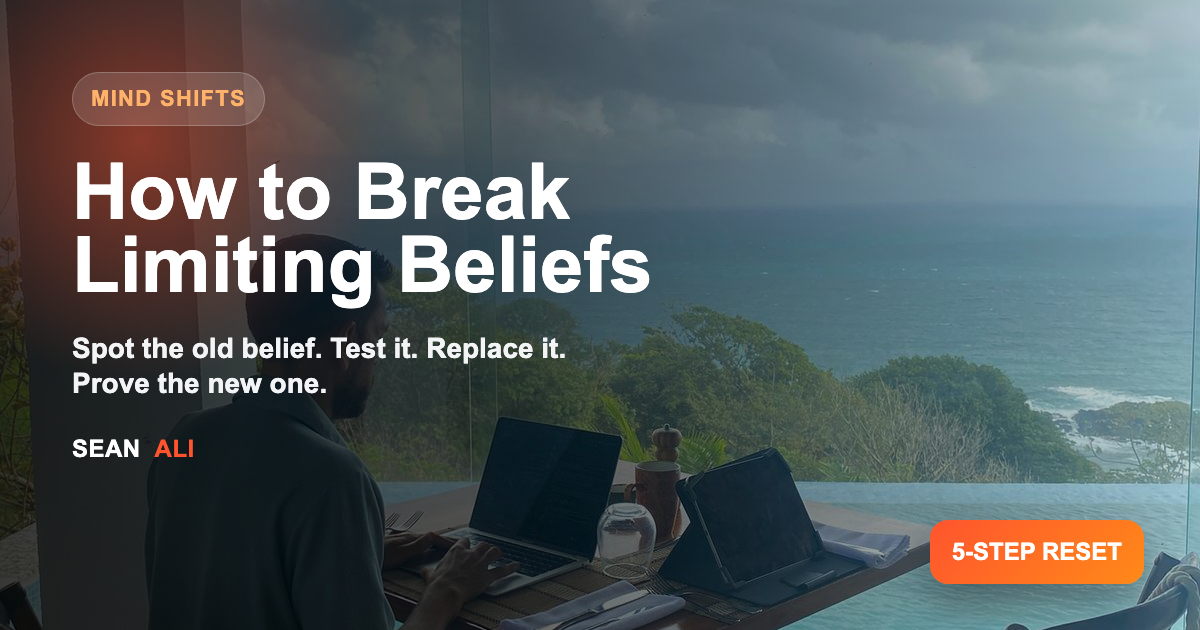
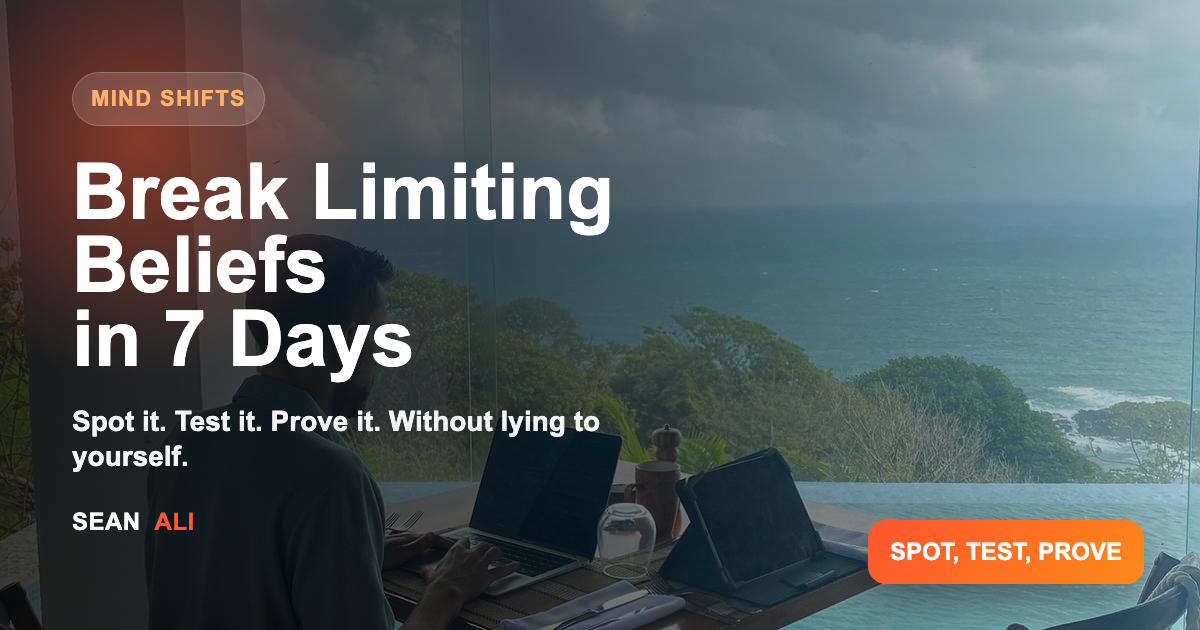
Strengthen limiting beliefs title mechanism

Changed region(s): [[0.0617, 0.2413, 0.555, 0.754], [0.7092, 0.8143, 0.9558, 0.9651], [0.0617, 0.8143, 0.185, 0.8444]]

diff --git a/blog/mind-shifts/how-to-break-limiting-beliefs/index.html b/blog/mind-shifts/how-to-break-limiting-beliefs/index.html
@@ -3,30 +3,30 @@
 <head>
 <meta charset="UTF-8">
 <meta name="viewport" content="width=device-width, initial-scale=1.0">
-<title>How to Break Limiting Beliefs | Sean Ali</title>
-<meta name="description" content="How to break limiting beliefs with a simple five-step reset. Sean Ali explains how to spot the belief, test it, replace it, and prove a better one.">
+<title>Break Limiting Beliefs in 7 Days: Spot, Test, Prove | Sean Ali</title>
+<meta name="description" content="Break limiting beliefs in 7 days with Sean Ali's Spot, Test, Prove method. Change the old belief without lying to yourself or forcing fake positive thinking.">
 <meta name="author" content="Sean Ali">
 <meta name="robots" content="index, follow, max-image-preview:large">
 <link rel="canonical" href="https://seanali.online/blog/mind-shifts/how-to-break-limiting-beliefs/">
 <link rel="icon" type="image/png" href="https://hypnoticmeditations.b-cdn.net/images/fav/headphones.png">
 <meta property="og:type" content="article">
 <meta property="og:site_name" content="Sean Ali">
-<meta property="og:title" content="How to Break Limiting Beliefs">
-<meta property="og:description" content="A simple five-step reset for the beliefs that quietly decide what feels possible, safe, and normal for you.">
+<meta property="og:title" content="Break Limiting Beliefs in 7 Days: Spot, Test, Prove">
+<meta property="og:description" content="Break limiting beliefs in 7 days with the Spot, Test, Prove method without lying to yourself.">
 <meta property="og:url" content="https://seanali.online/blog/mind-shifts/how-to-break-limiting-beliefs/">
 <meta property="og:image" content="https://seanali.online/assets/generated/limiting-beliefs-thumbnail.png">
 <meta property="og:image:width" content="1200">
 <meta property="og:image:height" content="630">
 <meta name="twitter:card" content="summary_large_image">
-<meta name="twitter:title" content="How to Break Limiting Beliefs">
+<meta name="twitter:title" content="Break Limiting Beliefs in 7 Days: Spot, Test, Prove">
 <meta name="twitter:description" content="Spot the old belief. Test it. Replace it. Prove the new one with action.">
 <meta name="twitter:image" content="https://seanali.online/assets/generated/limiting-beliefs-thumbnail.png">
 <script type="application/ld+json">
 {
   "@context":"https://schema.org",
   "@type":"BlogPosting",
-  "headline":"How to Break Limiting Beliefs",
-  "description":"How to break limiting beliefs with a simple five-step reset. Sean Ali explains how to spot the belief, test it, replace it, and prove a better one.",
+  "headline":"Break Limiting Beliefs in 7 Days: Spot, Test, Prove",
+  "description":"Break limiting beliefs in 7 days with Sean Ali's Spot, Test, Prove method. Change the old belief without lying to yourself or forcing fake positive thinking.",
   "image":[
     "https://seanali.online/assets/generated/limiting-beliefs-thumbnail.png",
     "https://seanali.online/assets/sean-life/sean-laptop-ocean-view.jpg",
@@ -67,10 +67,10 @@
 <header class="hero">
   <div class="wrap">
     <span class="kicker">Mind Shifts</span>
-    <h1>How to Break Limiting Beliefs</h1>
-    <p class="subhead">A limiting belief is not the truth. It is a sentence your mind keeps treating like the truth.</p>
+    <h1>Break Limiting Beliefs in 7 Days: Spot, Test, Prove</h1>
+    <p class="subhead">Use the Spot, Test, Prove method to change the old belief without lying to yourself.</p>
     <p class="byline">By <a href="/about-sean-ali/">Sean Ali</a> | Published August 12, 2026 | Updated August 12, 2026</p>
-    <a class="button" href="#reset">Use the 5-Step Reset</a>
+    <a class="button" href="#reset">Use Spot, Test, Prove</a>
     <figure class="hero-photo">
       <img src="/assets/sean-life/sean-laptop-ocean-view.jpg" alt="Sean Ali working from a laptop with an ocean view while building a freer life">
       <figcaption>Sometimes the outside view changes after the inside sentence changes first.</figcaption>
@@ -82,7 +82,7 @@
     <article class="content">
       <div class="answer">
         <h2>Quick answer</h2>
-        <p>To break a limiting belief, first write down the exact belief. Then test whether it is fact, fear, or old proof. Replace it with a belief that is both true and useful. Finally, take one small action that gives the new belief real evidence.</p>
+        <p>To break a limiting belief, use three steps for seven days: spot the exact belief, test whether it is fact or old fear, then prove a better belief with one small action each day.</p>
       </div>
 
       <p>Most people try to fight limiting beliefs with a big positive sentence.</p>
@@ -137,19 +137,17 @@
       </figure>
 
       <div class="reset-card" id="reset">
-        <h2>The 5-step limiting belief reset</h2>
+        <h2>The Spot, Test, Prove method</h2>
         <ol>
           <li><strong>Spot it.</strong> Write the exact sentence that keeps stopping you.</li>
           <li><strong>Test it.</strong> Ask, "Is this a fact, a fear, or old proof?"</li>
-          <li><strong>Replace it.</strong> Choose a belief that is true, useful, and believable.</li>
-          <li><strong>Prove it.</strong> Take one small action today that agrees with the new belief.</li>
-          <li><strong>Repeat it.</strong> Give the new belief more evidence for seven days.</li>
+          <li><strong>Prove it.</strong> Choose one small action today that gives a better belief real evidence.</li>
         </ol>
       </div>
 
       <figure class="photo">
-        <img src="/assets/generated/limiting-beliefs-reset.svg" alt="Five step limiting belief reset: spot it, test it, replace it, prove it, repeat it">
-        <figcaption>Keep the reset simple. If the steps are too complex, your old belief will use that as another excuse.</figcaption>
+        <img src="/assets/generated/limiting-beliefs-reset.svg" alt="Three step limiting belief reset: spot it, test it, prove it">
+        <figcaption>Keep the reset simple. Three steps are enough when you repeat them for seven days.</figcaption>
       </figure>
 
       <h2>Examples of better replacement beliefs</h2>
@@ -177,9 +175,9 @@
           <li>Where did I first learn it?</li>
           <li>What does this belief protect me from?</li>
           <li>What does it cost me now?</li>
-          <li>What new belief is true enough to practice?</li>
+          <li>What better belief is true enough to prove?</li>
           <li>What action can I finish before the day ends?</li>
-          <li>What proof will I repeat for the next seven days?</li>
+          <li>What proof will I repeat for seven days?</li>
         </ul>
       </div>
 

diff --git a/blog/index.html b/blog/index.html
@@ -82,11 +82,11 @@
           </div>
         </a>
         <a class="card" href="/blog/mind-shifts/how-to-break-limiting-beliefs/">
-          <img src="/assets/generated/limiting-beliefs-thumbnail.png" alt="How to Break Limiting Beliefs thumbnail with Sean Ali working by the ocean and title text overlay">
+          <img src="/assets/generated/limiting-beliefs-thumbnail.png" alt="Break Limiting Beliefs in 7 Days thumbnail with Sean Ali working by the ocean and title text overlay">
           <div class="card-body">
             <span class="pill">Mind Shifts</span>
-            <h3>How to Break Limiting Beliefs</h3>
-            <p>A simple five-step reset for the beliefs that quietly decide what feels possible, safe, and normal.</p>
+            <h3>Break Limiting Beliefs in 7 Days: Spot, Test, Prove</h3>
+            <p>A 3-step reset for changing the old belief without lying to yourself.</p>
             <span class="read">Read the lesson -></span>
           </div>
         </a>
@@ -185,8 +185,8 @@
       <p class="archive-count" id="archive-count" aria-live="polite">Showing all 16 posts</p>
       <div class="archive-grid" id="archive-grid">
         <a class="archive-card" data-category="mind" href="/blog/mind-shifts/how-to-break-limiting-beliefs/">
-          <img src="/assets/generated/limiting-beliefs-thumbnail.png" alt="How to Break Limiting Beliefs thumbnail with title text overlay" loading="lazy">
-          <div class="archive-copy"><div class="archive-meta"><span>Mind Shifts</span><time datetime="2026-08-12">Aug 12, 2026</time></div><h3>How to Break Limiting Beliefs</h3><p>A practical reset for limiting beliefs, subconscious safety, and identity.</p></div>
+          <img src="/assets/generated/limiting-beliefs-thumbnail.png" alt="Break Limiting Beliefs in 7 Days thumbnail with title text overlay" loading="lazy">
+          <div class="archive-copy"><div class="archive-meta"><span>Mind Shifts</span><time datetime="2026-08-12">Aug 12, 2026</time></div><h3>Break Limiting Beliefs in 7 Days: Spot, Test, Prove</h3><p>Spot, test, and prove a better belief for seven days.</p></div>
         </a>
         <a class="archive-card" data-category="business" href="/blog/online-business/automate-delegate-keep-human/">
           <img src="/assets/sean-life/sean-laptop-ocean-view.jpg" alt="Sean Ali working from a laptop with an ocean view" loading="lazy">

diff --git a/blog/mind-shifts/index.html b/blog/mind-shifts/index.html
@@ -128,8 +128,8 @@
       <div class="lesson-list">
         <a class="lesson" href="/blog/mind-shifts/how-to-break-limiting-beliefs/">
           <span>Limiting Beliefs</span>
-          <strong>How to Break Limiting Beliefs</strong>
-          <p>A five-step reset for spotting the belief, testing it, replacing it, and proving the new one.</p>
+          <strong>Break Limiting Beliefs in 7 Days: Spot, Test, Prove</strong>
+          <p>A 3-step reset for spotting the belief, testing it, and proving a better one for seven days.</p>
         </a>
         <a class="lesson" href="/blog/mind-shifts/what-is-an-identity-shift/">
           <span>Identity Shift</span>
